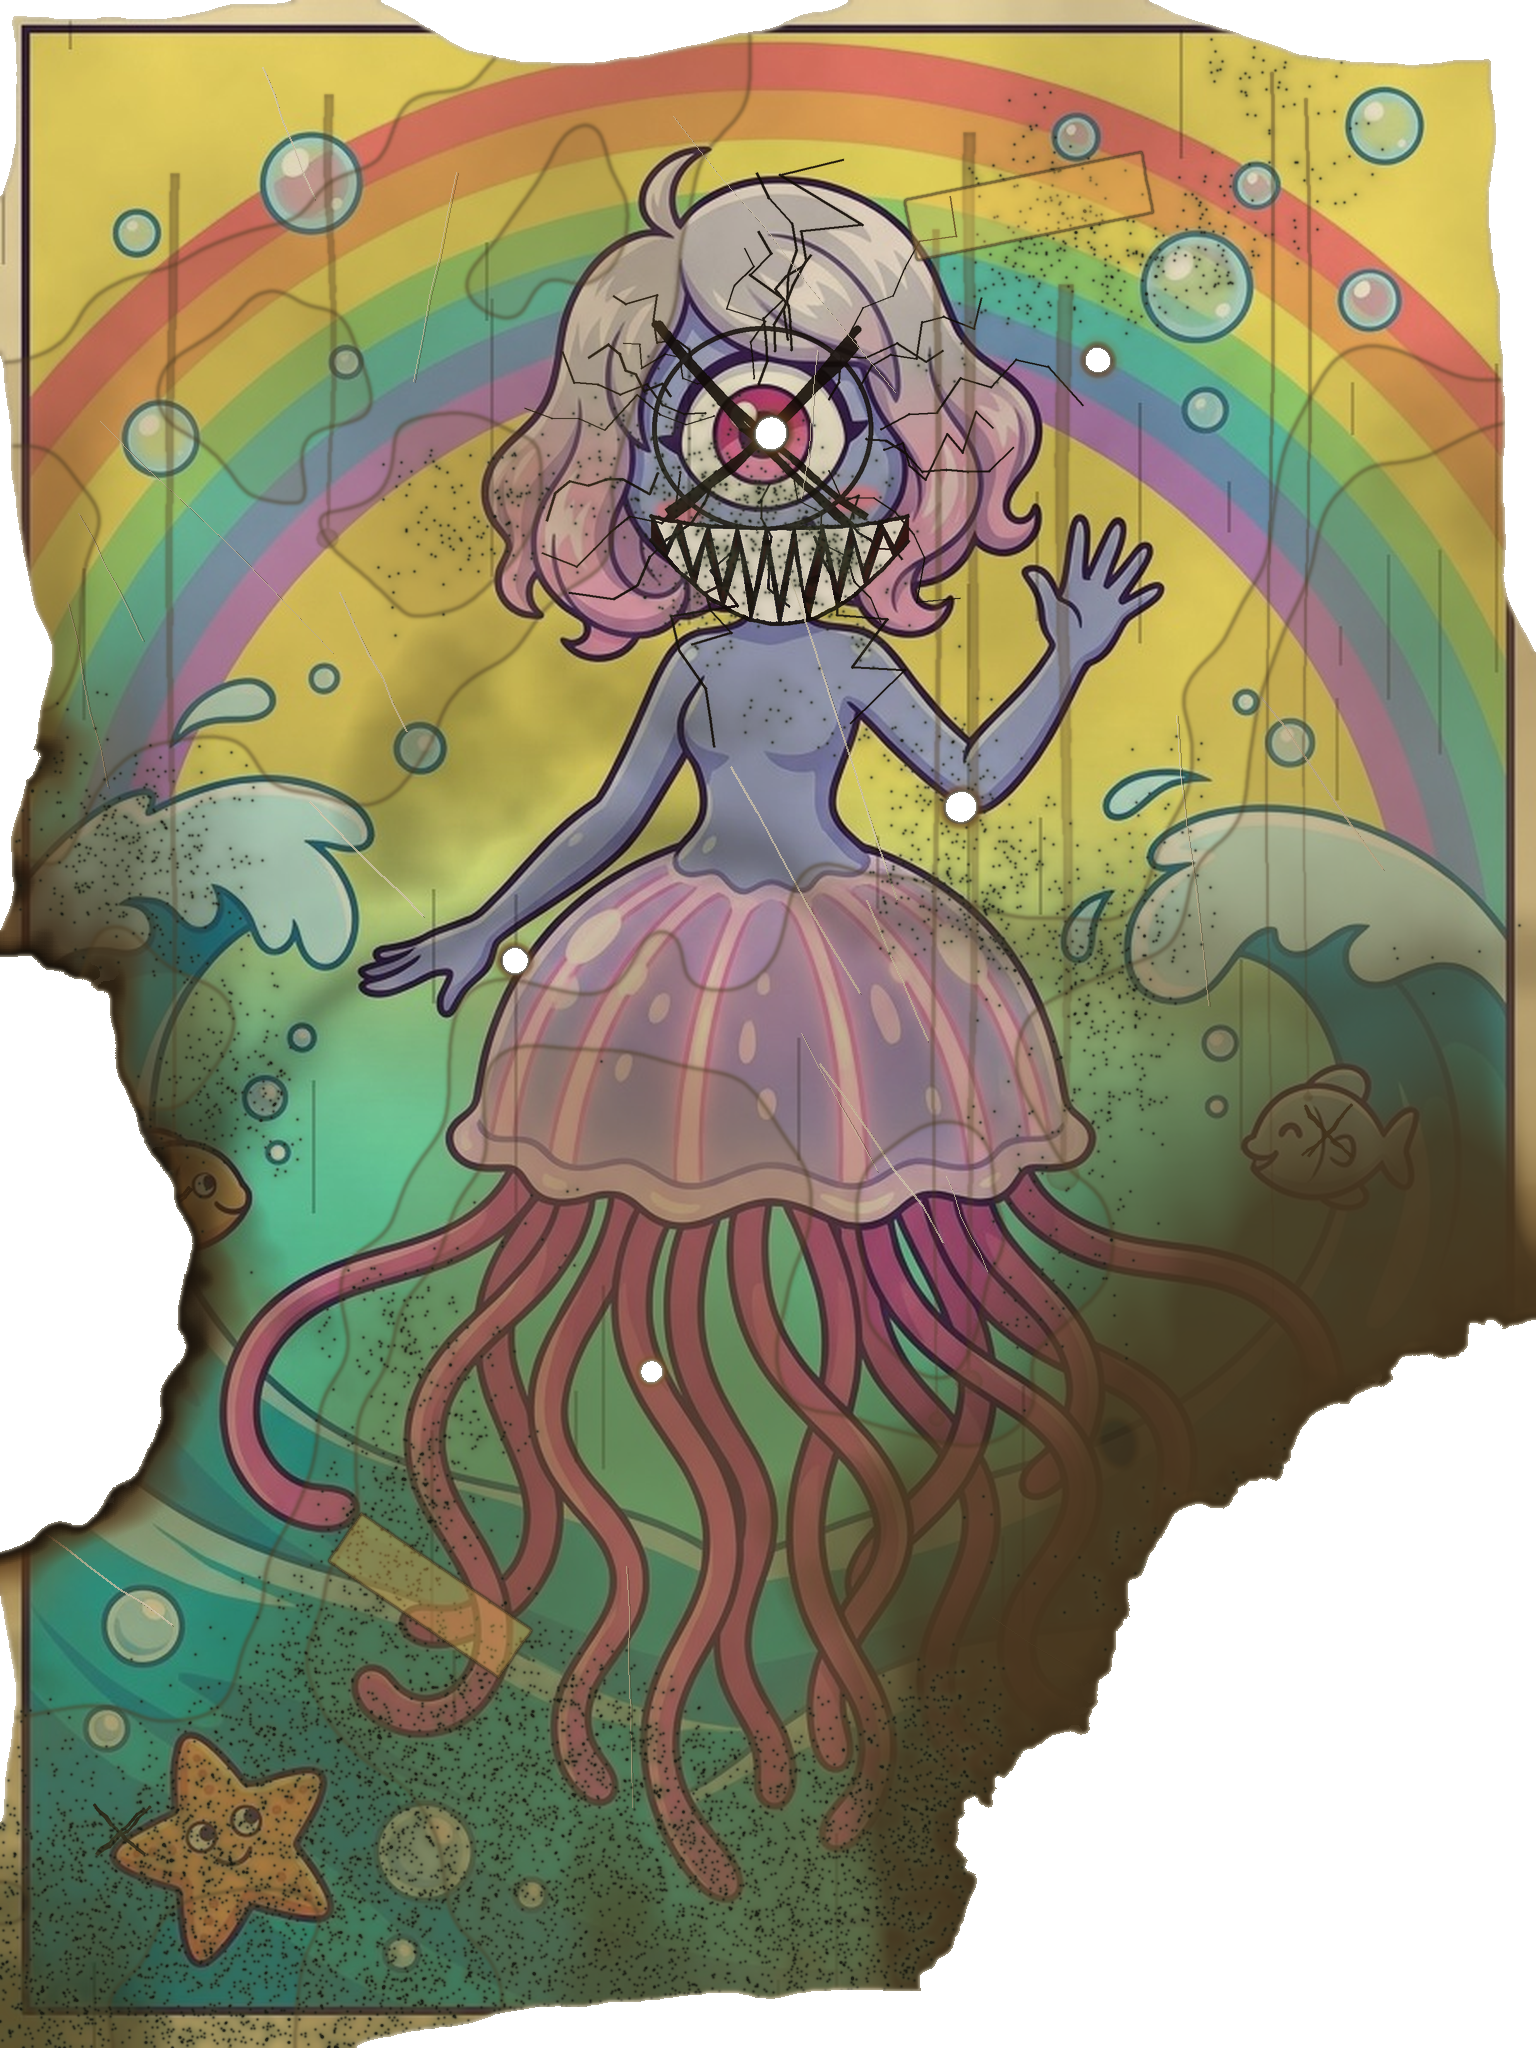
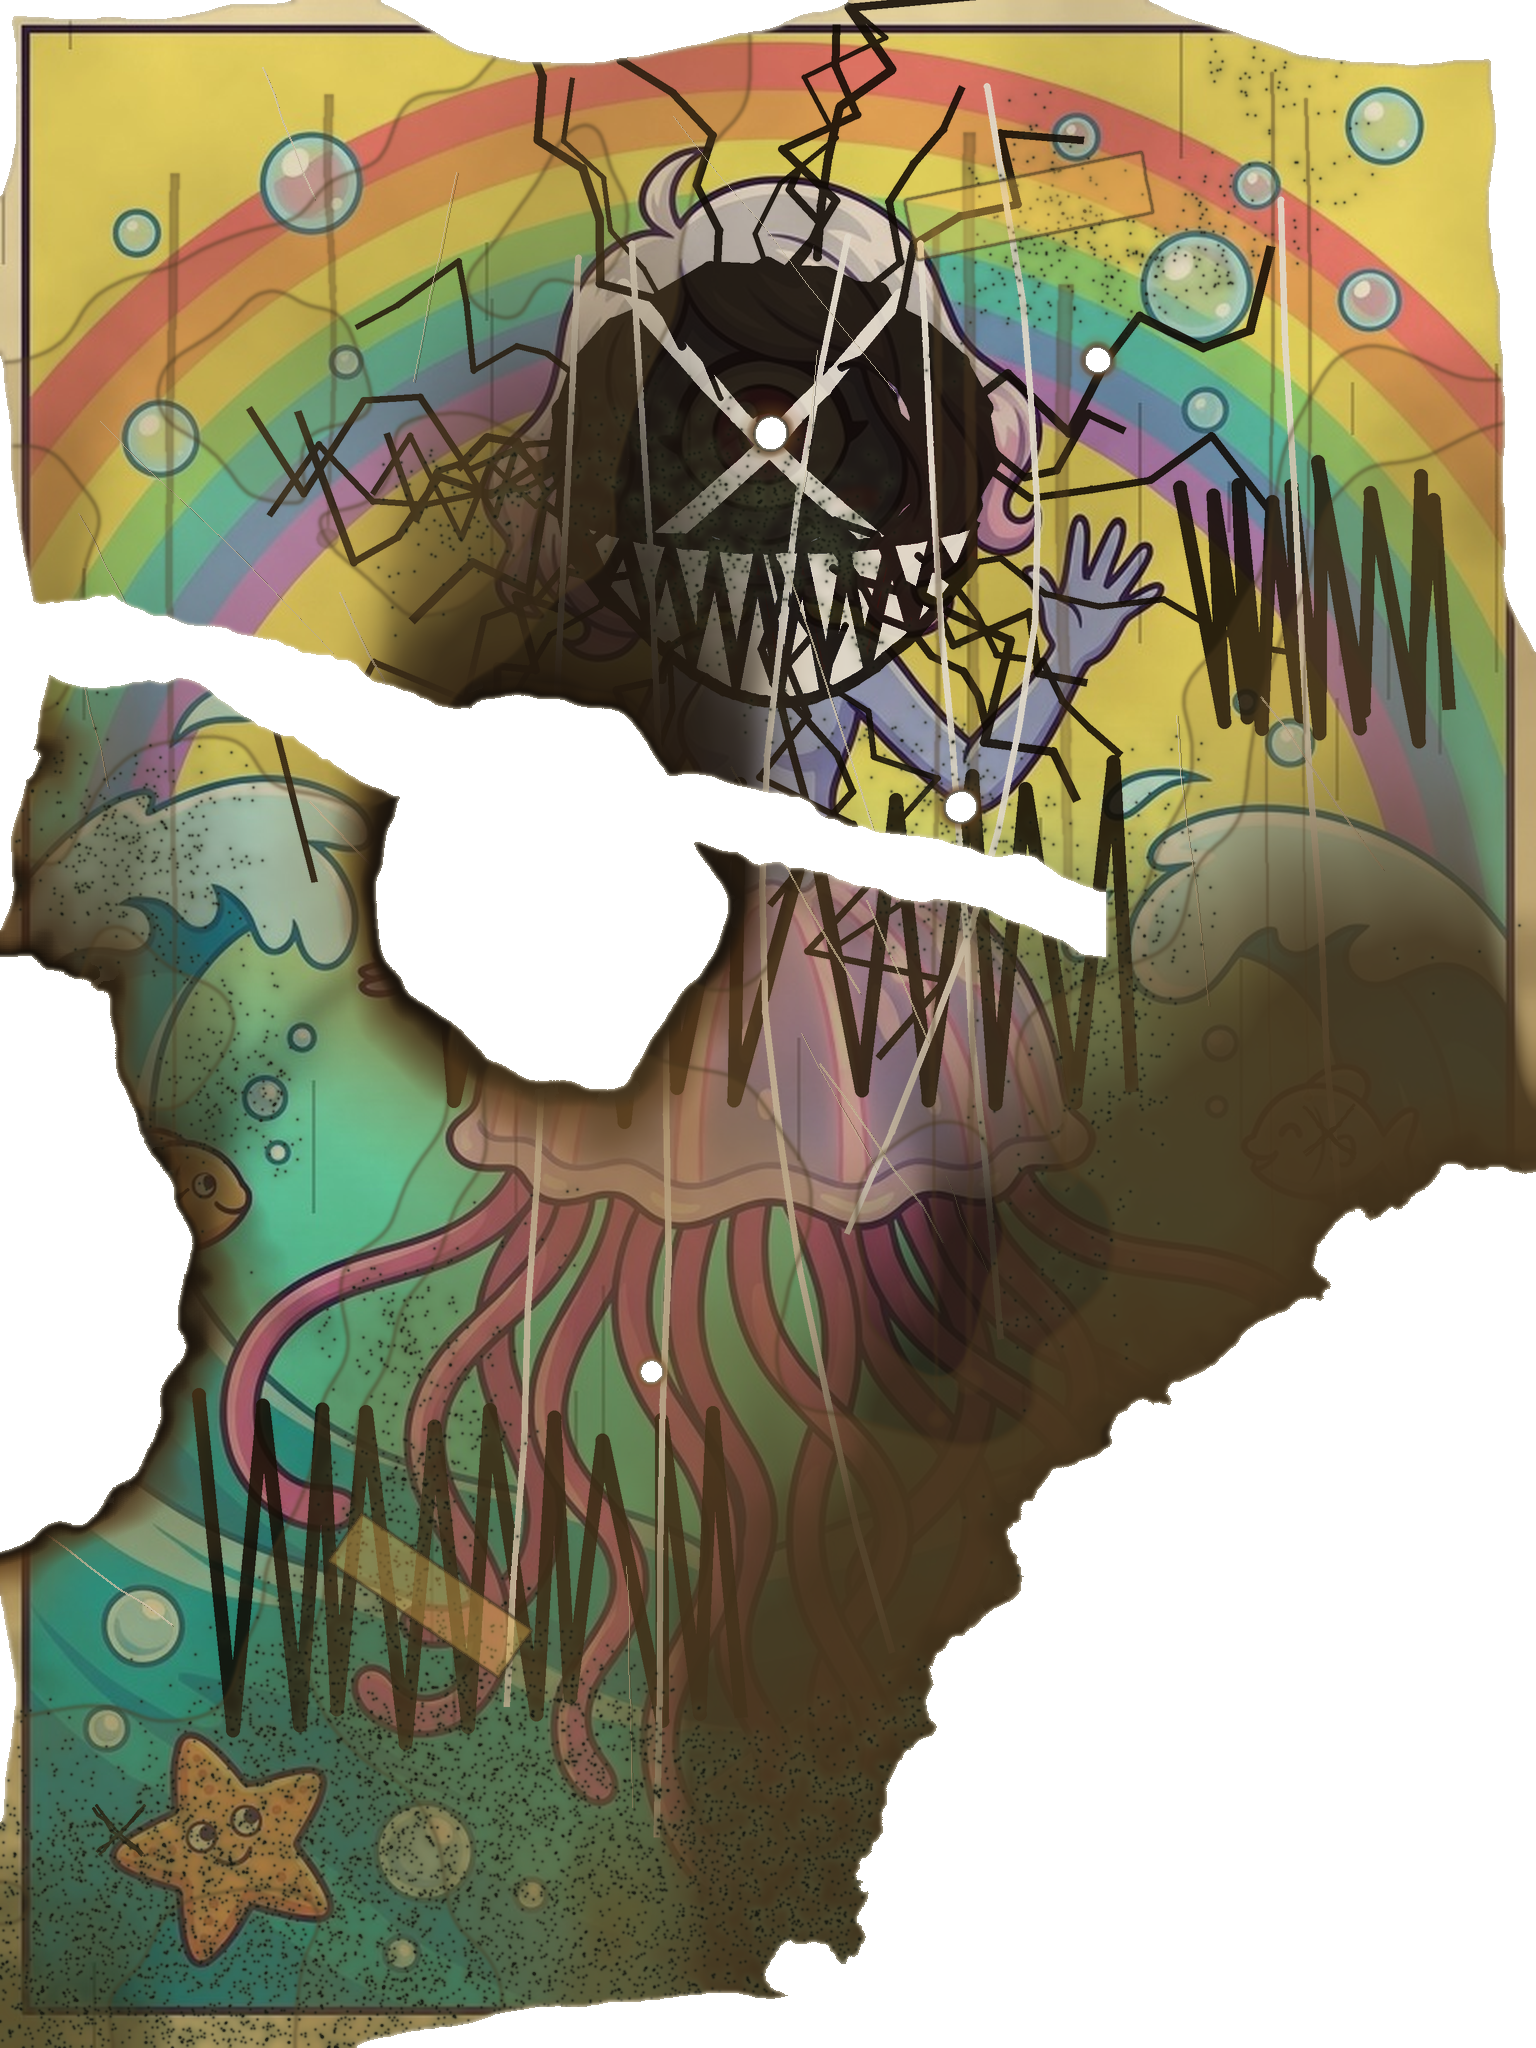
Scelte dell'utente del 25 ottobre: infermeria buia anche dopo il pulsante (A); cartellone dell'arcobaleno del corridoio rovinato molto di più (faccia annerita, croce e denti a vernice bianca, bruciature, strappo)
Claude-Session: https://claude.ai/code/session_01QZhvJrSvMNdteHdHVGug5a

diff --git a/assets_src/ambienti_interni/poster/rovina.py b/assets_src/ambienti_interni/poster/rovina.py
@@ -384,10 +384,26 @@ def cartellone():
     # scarabocchi prima della bruciatura (il fuoco li ha mangiati in parte)
     p = Pennarello(W, H, 51)
     ex, ey, er = 445 * k, 250 * k, 46 * k
-    p.croce(ex, ey, er * 1.25, 9 * k / 2, (14, 12, 12), volte=3)
-    p.d.ellipse([(ex - er * 1.4) * 2, (ey - er * 1.3) * 2, (ex + er * 1.4) * 2, (ey + er * 1.3) * 2], outline=(14, 12, 12, 220), width=int(6 * k))
-    p.denti(455 * k, 308 * k, 150 * k, 56 * k, 9, (14, 12, 12), (40, 6, 8), (236, 230, 214), 5 * k / 2, arco=0.5)
-    p.nervose(ex, ey, er * 2.6, 26, 3.2 * k / 2, (14, 12, 12), lung=(0.4, 1.0))
+    # (molto più rovinato, 25 ottobre: l'utente "questo va rovinato di più". Si deve leggere anche al buio rosso del
+    # corridoio: la faccia annerita tutta, la croce e i denti a vernice bianca che si vedono nel rosso, tratti spessi)
+    nero, bianco = (14, 12, 12), (236, 232, 222)
+    p.spirale(ex + 5, ey + 30, 120 * k, 12 * k, nero, giri=24)
+    p.spirale(ex, ey, er * 1.5, 14 * k, nero, giri=36)
+    p.croce(ex, ey, er * 1.7, 8 * k, bianco, volte=2)
+    p.denti(455 * k, 315 * k, 230 * k, 90 * k, 9, nero, (40, 6, 8), bianco, 7 * k, arco=0.55)
+    p.nervose(ex, ey + 20 * k, 210 * k, 34, 5 * k, nero, lung=(0.5, 1.2))
+    # zig-zag neri spessi sulla campana e sulla mano che saluta, e graffi bianchi lunghi su tutto
+    for (x0, y0, x1, y1) in ((250, 460, 650, 640), (690, 280, 830, 420), (120, 820, 420, 1000)):
+        zig = []
+        for i in range(10):
+            t = i / 9
+            zig += [((x0 + (x1 - x0) * t) * k + p.rng.normal(0, 10), y0 * k + p.rng.normal(0, 12)),
+                    ((x0 + (x1 - x0) * t + 18) * k + p.rng.normal(0, 10), y1 * k + p.rng.normal(0, 12))]
+        p.tratto(zig, 8 * k, nero, trem=4)
+    for i in range(6):
+        x = p.rng.uniform(80, 820) * k
+        p.linea((x, p.rng.uniform(40, 200) * k), (x + p.rng.normal(0, 120), p.rng.uniform(700, 1100) * k), 4 * k, bianco, n=12,
+                trem=3, curva=p.rng.normal(0, 0.08))
     # le due stelline marine e i pesci: occhi crocettati anche a loro, piccoli
     for (x, y) in ((70, 1068), (775, 1068), (95, 708), (775, 660)):
         p.croce(x * k, y * k, 14 * k, 3.5 * k / 2, (14, 12, 12), volte=2)
@@ -396,12 +412,21 @@ def cartellone():
     # bruciatura grande: sale dall'angolo in basso a destra e si mangia mezza campana e i tentacoli
     n = blob((H, W), 53, 5) * 0.65 + blob((H, W), 54, 18) * 0.35
     dist = np.hypot((xx - W * 1.02) / W, (yy - H * 1.05) / H * 1.15)
-    campo = 1 - dist * 1.55 + (n - 0.5) * 0.55
-    a, alfa = bruciatura(a, alfa, campo, 0.42, 0.14, 55, fuliggine=1.6, verso=(-0.25, -1))
+    campo = 1 - dist * 1.25 + (n - 0.5) * 0.55
+    a, alfa = bruciatura(a, alfa, campo, 0.42, 0.18, 55, fuliggine=2.2, verso=(-0.25, -1))
     # una seconda lingua di fuoco sul bordo sinistro, più piccola
     dist2 = np.hypot((xx - W * -0.02) / W * 1.4, (yy - H * 0.62) / H * 0.8)
     campo2 = 1 - dist2 * 3.4 + (blob((H, W), 56, 7) - 0.5) * 0.6
     a, alfa = bruciatura(a, alfa, campo2, 0.48, 0.12, 57, fuliggine=0.7, verso=(0.15, -1))
+    # strappo grosso che attraversa il cartellone in diagonale dal bordo sinistro (resta un ponte di carta verso destra,
+    # così il pezzo di sopra è ancora unito al resto)
+    ns = blob((H, W), 65, 14)
+    linea_y = 0.30 * H + xx * 0.28 + (ns - 0.5) * 70
+    larga = 20 + 42 * blob((H, W), 66, 6)
+    alfa = alfa * ~((np.abs(yy - linea_y) < larga) & (xx < 0.72 * W))
+    # un secondo buco bruciato, tondo, sul petto
+    dist3 = np.hypot((xx - 330 * k) / (110 * k), (yy - 520 * k) / (120 * k))
+    a, alfa = bruciatura(a, alfa, 1 - dist3 * 0.6 + (blob((H, W), 67, 8) - 0.5) * 0.35, 0.45, 0.2, 68, fuliggine=1.4, verso=(0.1, -1))
     # buchi di sigaretta sul corpo e uno nell'occhio
     a, alfa = buchi_sigaretta(a, alfa, [(ex + 8, ey + 4), (300 * k, 560 * k), (560 * k, 470 * k), (380 * k, 800 * k), (640 * k, 210 * k)],
                               [9 * k, 7 * k, 8 * k, 6 * k, 7 * k], 58)
@@ -414,6 +439,11 @@ def cartellone():
     a, alfa = scotch(a, alfa, 250 * k, 930 * k, 120 * k, 34 * k, 0.6, 63)
     a, alfa = scotch(a, alfa, 600 * k, 120 * k, 140 * k, 36 * k, -0.2, 64)
     a = bordo_strappato(a, alfa, 2.0, 0.5)
+    # resta un pezzo solo di carta: via i granelli staccati di pochi pixel lasciati dai buchi
+    lab, n = ndimage.label(alfa > 0.5)
+    if n > 1:
+        grandi = np.argmax(ndimage.sum(alfa > 0.5, lab, range(1, n + 1))) + 1
+        alfa = alfa * (lab == grandi)
     salva(a, alfa, os.path.join(TEX_INT, 'cartellone_medusa_rovinato.png'))
 
 
